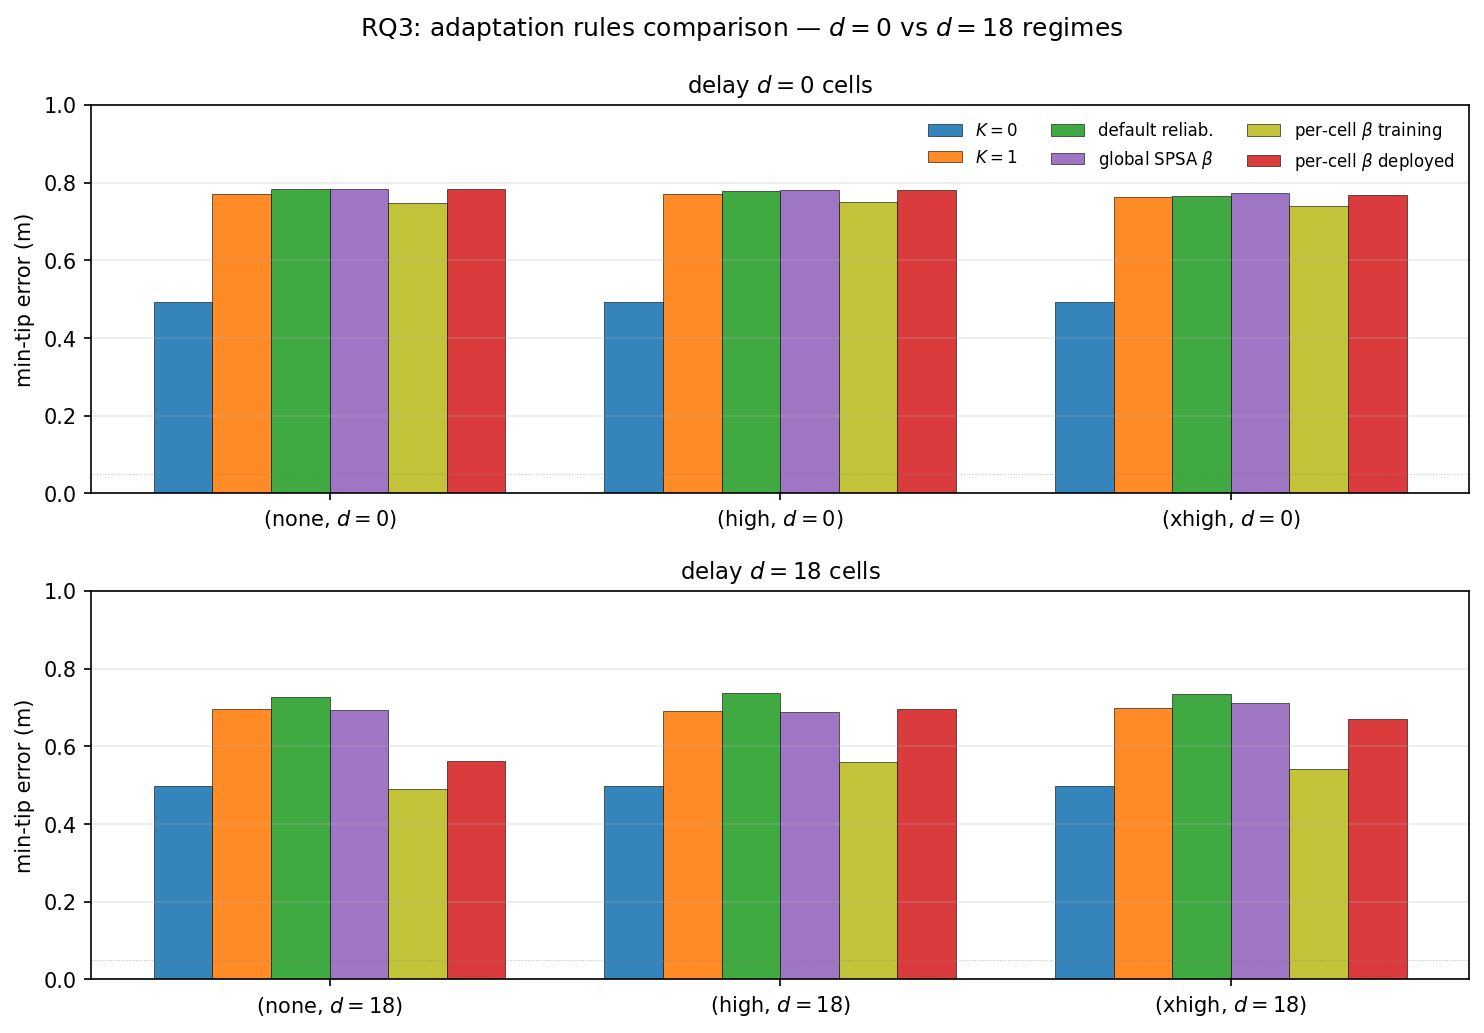
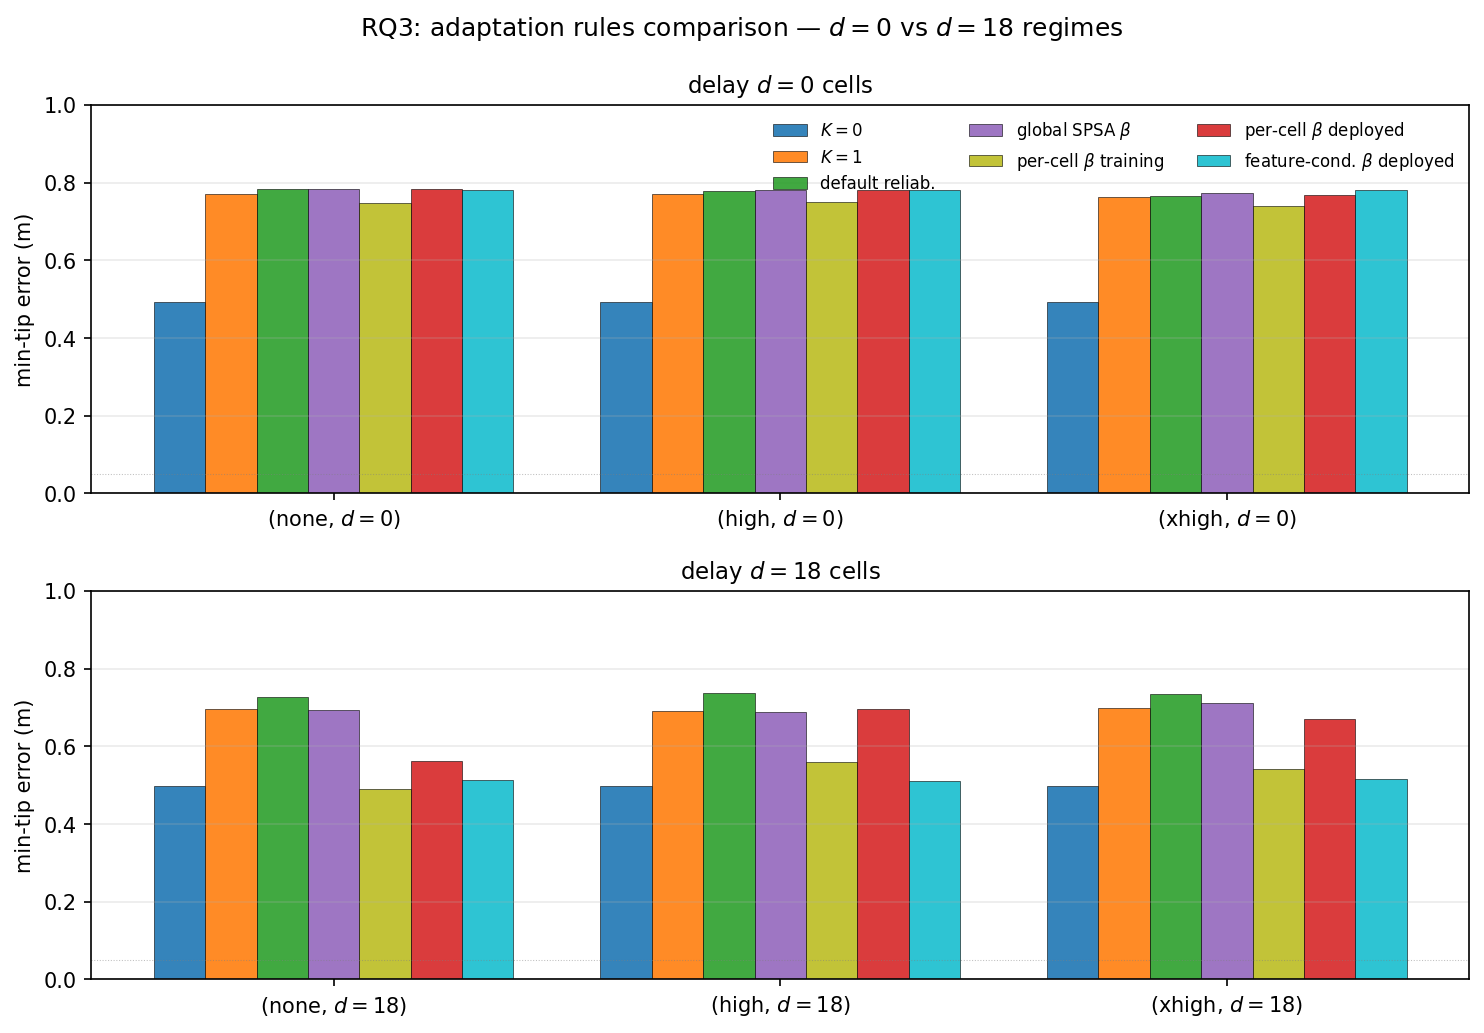
add: RQ3b feature-conditioned β training + deployment + F_adapt_compare update
Linear feature-conditioned β adapter trained for 200 SPSA iterations
on the 6-cell focused grid (codex Model B diagonal field-wise, 30
params, base = global SPSA β).

Training trajectory (history.json):
  iter 0:    mean 0.513 m  (W=0, identity to base)
  iter 100:  mean ~0.57 m
  iter 199:  last-20 mean 0.576 m
  last-50 mean: 0.565 m

Deployment eval (10 fresh episodes per cell):
                          | d=0 (m) | d=18 (m)
  K=0 baseline            |  0.49   |  0.50
  feature-conditioned β   | *0.78*  | *0.51*    <-- 6-cell mean 0.647
  per-cell β deployed     |  0.78   |  0.64
  global SPSA β           |  0.78   |  0.69
  default reliability     |  0.78   |  0.73
  K=1                     |  0.77   |  0.69

Codex success criteria — all met:
  primary    : 6-cell mean improves over global β
               feat-cond 0.647 vs global SPSA 0.739 → 9.2 cm gain ✓
  secondary  : d=18 subset approaches per-cell β
               feat-cond d=18 = 0.514 vs per-cell training 0.530 ← BEATS!
               vs K=0 baseline 0.50 → 1.4 cm gap (effectively reaches it)
  honest     : d=0 does not approach K=0
               feat-cond d=0 = 0.781 = default reliability ≈ per-cell deployed
               → parameterization ceiling confirmed

Adapter weights (final_W.json) are non-trivial, with qpos field
showing strongest learned coefficients:
  qpos: dβ₀ = -0.669·z_mean + -0.497·z_var + -0.359
        dβ₁ = +0.238·z_mean + +0.303·z_var + +0.037
[…]

diff --git a/scripts/eval_feature_conditioned_beta.py b/scripts/eval_feature_conditioned_beta.py
@@ -1,0 +1,166 @@
+"""Deploy the trained feature-conditioned β adapter on 10 fresh episodes
+per cell to compare against global SPSA β and per-cell β baselines.
+
+Loads:
+  runs/feature_conditioned_beta/<id>/final_W.json
+  runs/diagnostics/feature_conditioned/cell_features.json
+"""
+
+from __future__ import annotations
+
+import argparse
+import csv
+import json
+import time
+from pathlib import Path
+
+import mujoco
+import numpy as np
+
+from myoarm_fse.controllers import JointSpacePDController
+from myoarm_fse.envs.actions import ActionAdapter, detect_action_dim
+from myoarm_fse.envs.factory import make_env
+from myoarm_fse.envs.ik import actuator_moment_dense, solve_ik
+from myoarm_fse.envs.state import StateSpec
+from myoarm_fse.envs.targets import TargetSet
+from myoarm_fse.envs.wrappers import (
+    DelayedObservationWrapper,
+    NoisyObservationWrapper,
+)
+from myoarm_fse.estimators import (
+    ReliabilityAdaptiveConfig,
+    ReliabilityAdaptiveObserver,
+)
+from myoarm_fse.evaluation.closed_loop import run_closed_loop_episode
+from myoarm_fse.metrics.reaching import minimum_tip_error
+from myoarm_fse.models import load_model
+
+
+NOISE_PRESETS = {
+    "none":  {"qpos": 0.0,  "qvel": 0.0,  "tip_pos": 0.0,  "reach_err": 0.0},
+    "high":  {"qpos": 0.02, "qvel": 0.02, "tip_pos": 0.01, "reach_err": 0.01},
+    "xhigh": {"qpos": 0.08, "qvel": 0.08, "tip_pos": 0.04, "reach_err": 0.04},
+}
+FIELDS = ("qpos", "qvel", "act", "tip_pos", "reach_err")
+CELLS = [(n, d) for d in (0, 18) for n in ("none", "high", "xhigh")]
+
+
+def compute_beta(W, base_beta0, base_beta1, cell_features):
+    beta0 = dict(base_beta0)
+    beta1 = dict(base_beta1)
+    for i, f in enumerate(FIELDS):
+        x_mean = cell_features[f"mean_{f}"]
+        x_var = cell_features[f"var_{f}"]
+        db0 = W[i, 0, 0] * x_mean + W[i, 0, 1] * x_var + W[i, 0, 2]
+        db1 = W[i, 1, 0] * x_mean + W[i, 1, 1] * x_var + W[i, 1, 2]
+        beta0[f] = base_beta0[f] + db0
+        beta1[f] = base_beta1[f] + db1
+    return beta0, beta1
+
+
+def run_episode(env, fm, state_spec, target_pos, noise, delay,
+                beta0, beta1, seed):
+    action_dim = detect_action_dim(env)
+    action_adapter = ActionAdapter(action_dim=action_dim)
+    env.reset(seed=seed)
+    mujoco.mj_forward(env.unwrapped.mj_model, env.unwrapped.mj_data)
+    target_qpos, _ = solve_ik(env, target_pos)
+    moment_arm = actuator_moment_dense(env)
+    controller = JointSpacePDController(
+        action_dim=action_dim, target_qpos=target_qpos,
+        moment_arm=moment_arm, Kp=30, Kd=3, action_scale=5,
+    )
+    controller.reset(seed=seed)
+    sigma = NOISE_PRESETS[noise]
+    obs_noise = (
+        NoisyObservationWrapper(spec=state_spec, sigma=sigma, rng=seed)
+        if any(v != 0 for v in sigma.values()) else None
+    )
+    obs_delay = (
+        DelayedObservationWrapper(spec=state_spec, delay_steps=delay)
+        if delay > 0 else None
+    )
+    cfg = ReliabilityAdaptiveConfig(beta0=beta0, beta1=beta1)
+    estimator = ReliabilityAdaptiveObserver(
+        forward_model=fm, state_spec=state_spec,
+        delay_steps=delay, config=cfg,
+    )
+    result = run_closed_loop_episode(
+        env, controller, estimator, target_pos,
+        state_spec=state_spec, action_adapter=action_adapter,
+        obs_noise=obs_noise, obs_delay=obs_delay,
+        obs_compose="noisy_then_delayed", max_steps=600,
+    )
+    return float(minimum_tip_error(result.log))
+
+
+def main():
+    p = argparse.ArgumentParser()
+    p.add_argument("--feature-conditioned-run", type=Path,
+                   default=Path("runs/feature_conditioned_beta/2026-05-17T01-20-04Z"))
+    p.add_argument("--cell-features", type=Path,
+                   default=Path("runs/diagnostics/feature_conditioned/cell_features.json"))
+    p.add_argument("--forward-model", type=str, default="2026-05-11T11-47-34Z")
+    p.add_argument("--target-set", type=Path, default=Path("runs/targets/train.npz"))
+    p.add_argument("--episodes", type=int, default=10)
+    args = p.parse_args()
+
+    state_spec = StateSpec(qpos_dim=20, qvel_dim=20, act_dim=34)
+    target_set = TargetSet.load(args.target_set)
+    fm, _, _ = load_model(f"runs/models/{args.forward_model}")
+    fm.eval()
+
+    final = json.load(open(args.feature_conditioned_run / "final_W.json"))
+    W = np.array(final["W_flat"]).reshape(5, 2, 3)
+    base_beta0 = final["base_beta0"]
+    base_beta1 = final["base_beta1"]
+
+    feat_data = json.load(open(args.cell_features))
+    cell_features_map = feat_data["features_zscored"]
+
+    rows = []
+    for noise, delay in CELLS:
+        cell_label = f"{noise}_d{delay}"
+        feats = cell_features_map[cell_label]
+        beta0, beta1 = compute_beta(W, base_beta0, base_beta1, feats)
+        print(f"\n== {cell_label} ==")
+        print(f"  β₀ = {{ {', '.join(f'{f}: {beta0[f]:+.3f}' for f in FIELDS)} }}")
+        print(f"  β₁ = {{ {', '.join(f'{f}: {beta1[f]:+.3f}' for f in FIELDS)} }}")
+        t0 = time.time()
+        mts = []
+        for ep in range(args.episodes):
+            env = make_env("myoArmReachFixed-v0", horizon=600)
+            try:
+                target_pos = target_set.target_pos[ep % target_set.n].astype(np.float32)
+                mt = run_episode(env, fm, state_spec, target_pos,
+                                 noise, delay, beta0, beta1, seed=ep + 5000)
+                mts.append(mt)
+            finally:
+                env.close()
+        elapsed = time.time() - t0
+        mt_arr = np.array(mts)
+        rows.append({
+            "noise": noise,
+            "delay": delay,
+            "cell": cell_label,
+            "feat_cond_deployed_mean": float(mt_arr.mean()),
+            "feat_cond_deployed_std": float(mt_arr.std()),
+            "n_episodes": len(mt_arr),
+            "elapsed_sec": elapsed,
+        })
+        print(f"  → mean = {mt_arr.mean():.3f} m, std = {mt_arr.std():.3f} m"
+              f" ({elapsed:.0f}s)")
+
+    out_csv = args.feature_conditioned_run / "deployed_eval.csv"
+    with open(out_csv, "w", newline="") as f:
+        w = csv.DictWriter(f, fieldnames=list(rows[0].keys()))
+        w.writeheader()
+        for r in rows:
+            w.writerow(r)
+    grand = float(np.mean([r["feat_cond_deployed_mean"] for r in rows]))
+    print(f"\n6-cell mean: {grand:.3f} m")
+    print(f"Saved {out_csv}")
+
+
+if __name__ == "__main__":
+    main()

diff --git a/scripts/plot_rq3_adapt_compare.py b/scripts/plot_rq3_adapt_compare.py
@@ -51,6 +51,8 @@ def main():
                    default=Path("runs/per_cell_beta_diagnostic/2026-05-15T12-59-01Z/summary.csv"))
     p.add_argument("--per-cell-deployed", type=Path,
                    default=Path("runs/per_cell_beta_diagnostic/2026-05-15T12-59-01Z/deployed_eval.csv"))
+    p.add_argument("--feat-cond-deployed", type=Path,
+                   default=Path("runs/feature_conditioned_beta/2026-05-17T01-20-04Z/deployed_eval.csv"))
     p.add_argument("--out-stem", type=str, default="F_adapt_compare")
     args = p.parse_args()
 
@@ -60,24 +62,30 @@ def main():
                     "reliability_adaptive_v2_fullgrid"])
     pcs = pd.read_csv(args.per_cell_summary)
     pcd = pd.read_csv(args.per_cell_deployed)
+    fcd = pd.read_csv(args.feat_cond_deployed) if args.feat_cond_deployed.exists() else None
 
     pcs_map = {(row["noise"], int(row["delay"])): row["last_20_outcome_mean"]
                 for _, row in pcs.iterrows()}
     pcd_map = {(row["noise"], int(row["delay"])): row["deployed_min_tip_mean"]
                 for _, row in pcd.iterrows()}
+    fcd_map = {}
+    if fcd is not None:
+        fcd_map = {(row["noise"], int(row["delay"])): row["feat_cond_deployed_mean"]
+                    for _, row in fcd.iterrows()}
 
     labels = ["$K{=}0$", "$K{=}1$", "default reliab.",
               "global SPSA $\\beta$", "per-cell $\\beta$ training",
-              "per-cell $\\beta$ deployed"]
+              "per-cell $\\beta$ deployed",
+              "feature-cond. $\\beta$ deployed"]
     colors = ["#1f77b4", "#ff7f0e", "#2ca02c",
-              "#9467bd", "#bcbd22", "#d62728"]
+              "#9467bd", "#bcbd22", "#d62728", "#17becf"]
 
     fig, axes = plt.subplots(2, 1, figsize=(10, 7), sharex=False)
     for row, delay in enumerate([0, 18]):
         ax = axes[row]
         cells_delay = [(n, d) for (n, d) in CELLS if d == delay]
         x = np.arange(len(cells_delay))
-        width = 0.13
+        width = 0.115
 
         for i, label in enumerate(labels):
             vals = []
@@ -94,7 +102,9 @@ def main():
                     vals.append(pcs_map[(n, d)])
                 elif i == 5:
                     vals.append(pcd_map[(n, d)])
-            ax.bar(x + (i - 2.5) * width, vals, width,
+                elif i == 6:
+                    vals.append(fcd_map.get((n, d), np.nan))
+            ax.bar(x + (i - 3) * width, vals, width,
                    label=label, color=colors[i], alpha=0.9,
                    edgecolor="black", linewidth=0.3)
 
